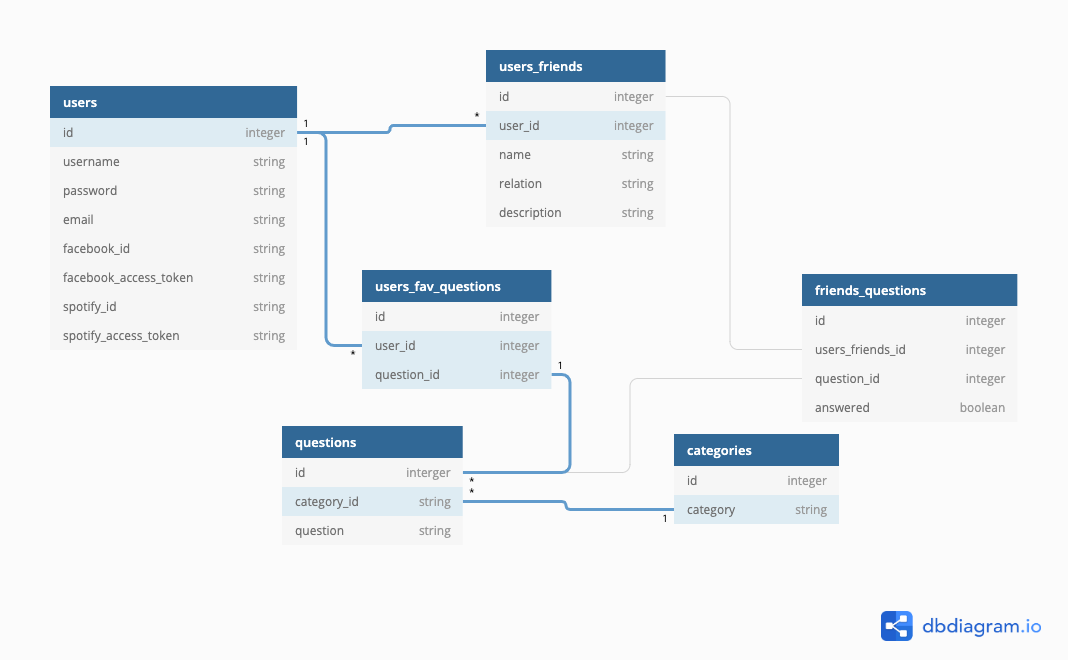
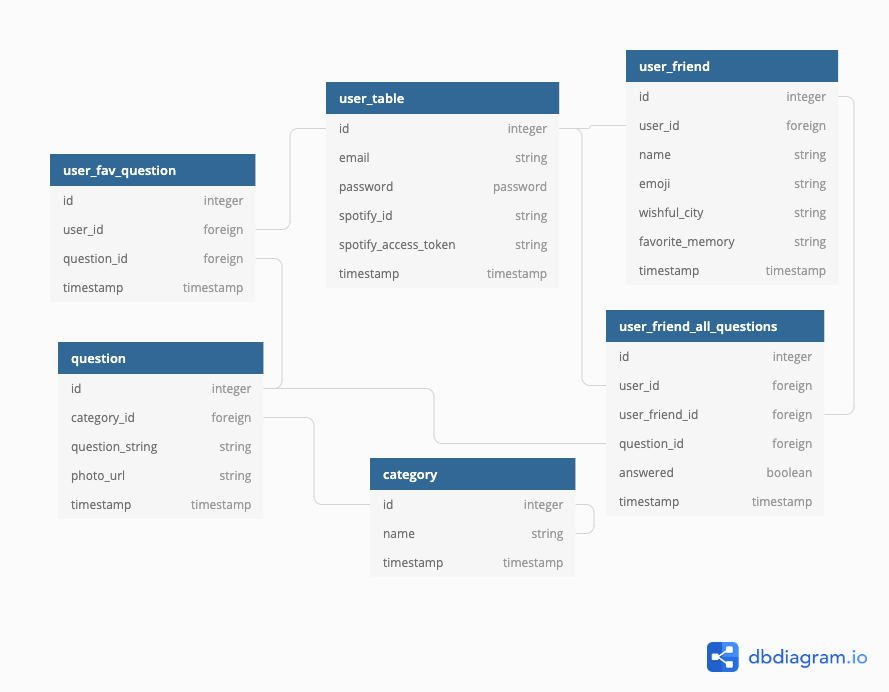
updated table

diff --git a/controller/services/testqueries.js b/controller/services/testqueries.js
@@ -1,0 +1,62 @@
+var knex = require('knex')({
+    client: 'postgresql',
+    connection: {
+        user: 'postgres',
+        password: 'orange',
+        database: 'doyouremember'
+    },
+    migrations: {
+        tableName: 'migrations'
+    }
+});
+
+function printQuery(query) {
+    query.then((eachRowInQuery) => {
+        console.log("Each Row in Query: ", eachRowInQuery);
+    }).catch((error) => {
+        console.log("Error: ", error);
+    });
+}
+let getQuery = knex.from("user_table").select("email", "password");
+
+/**********************************************
+ * QUERIES REQUIRED
+ * ==================================
+ * - [x ] get all users 
+ * - [ ] get user (id, user)
+ * - [ ] add user (user)
+ * - [ ] edit user service (id, user) 
+ * - [ ] delete user service (id, user)
+ * - [ ] get all user friends
+ * - [ ] add friend
+ * - [ ] edit friend
+ * - [ ] delete friend
+ * - [ ] get all questions from this category
+ * - [ ] get all questions
+ * - [ ] get all favorited questions
+ * - [ ] get all answered questions
+ * - [ ] make questions answered 
+ * 
+ ***********************************************/
+
+// get all from table 
+
+let user_table = "user_table"
+let user_table_email = "email"
+let user_table_password = "password"
+let category = "category"
+let category_name = "name"
+
+let getAllFromUserTable = knex.from(user_table).select(user_table_email, user_table_password)
+let getFromUser = knex.from(user_table).select("")
+
+let getUserQuery = knex.from
+    .then((rows) => {
+        console.log("HERE YA GO YA IDIOT")
+        console.log(rows);
+        console.log("AT LEAST SOMETHING HAPPENED TODAY")
+    })
+    .catch((error) => {
+        console.log("THE IDIOCY NEVER ENDS")
+        console.log(error);
+    });

diff --git a/controller/routes/FriendRouter.js b/controller/routes/FriendRouter.js
@@ -40,10 +40,6 @@ class FriendRouter {
      * Outgoing data: 
      * Methods from service class
      * 1. getAllFriendsService()
-     * 2. getFriendService(id, friend)
-     * 3. addFriendService(friend)
-     * 4. editFriendService(id, friend)
-     * 5. deleteFriendService(id, friend)
      ***********************************************/
     getAllFriendsRoute(incoming, outgoing) {
 

diff --git a/controller/routes/README.md b/controller/routes/README.md
@@ -1,0 +1,82 @@
+Example 1
+```
+  add(note, user) {
+    // Where In claus broken...
+    // let query = this.knex.select('notes.content', 'notes.user_id')
+    // .from
+    // ('notes')
+    // .where('users.id', 1)
+    //                 .whereIn('notes.user_id', function (){
+    //                      this.select('id').from('users')
+    //                 })
+    //                 console.log('okay')
+    //                 console.log(note, user)
+    //                 // console.log(query)
+    //                 return query.then((rows)=>{
+    //                     console.log('getting here')
+    //                     console.log(rows, 'these are rows?')
+    //                     return rows
+    //                 })
+
+    // where is actually a subquery - it first runs the subquery returning an array, then rest of the conditionas are applied
+    let query = this.knex
+      .select("id")
+      .from("users")
+      .where("users.username", user);
+
+    return query.then((rows) => {
+      console.log(rows[0].id, "<==== this is the id");
+      if (rows.length === 1) {
+        return this.knex
+          .insert({
+            content: note,
+            user_id: rows[0].id,
+          })
+          .into("notes");
+      } else {
+        throw new Error(`Cannot add a note to a user that doesn't exist!`);
+      }
+    });
+  }
+  ```
+list the user 
+  ```
+    list(user) {
+    if (typeof user !== "undefined") {
+      let query = this.knex
+        .select("notes.id", "notes.content")
+        .from("notes")
+        .innerJoin("users", "notes.user_id", "users.id")
+        .where("users.username", user)
+        .orderBy("notes.id", "asc");
+
+      return query.then((rows) => {
+        console.log(rows, "pp");
+        return rows.map((row) => ({
+          id: row.id,
+          content: row.content,
+        }));
+      });
+    } else {
+      let query = this.knex
+        .select("users.username", "notes.id", "content")
+        .from("notes")
+        .innerJoin("users", "notes.user_id", "users.id");
+
+      return query.then((rows) => {
+        console.log(rows);
+        const result = {};
+        rows.forEach((row) => {
+          if (typeof result[row.username] === "undefined") {
+            result[row.username] = [];
+          }
+          result[row.username].push({
+            id: row.id,
+            content: row.content,
+          });
+        });
+        return result;
+      });
+    }
+  }
+  ```

diff --git a/README.md b/README.md
@@ -62,6 +62,10 @@ node app.js
 - [ ] ![SQL Diagram](./sql.png)
 - [ ] Postgres
 
+Final Database Diagram
+
+
+
 ## Important Vocabulary
 
 | Word | Where it occurs | How it works |
@@ -375,7 +379,7 @@ user_fav_question {
     - [ ] Get user 
       - [ ] Service: getUserService("/:id")
       - [ ] Route: getUserRoute 
-      - [ ] Knex command works
+      - [ x] Knex command works
       - [ ] Postgres check 
       - [ ] Router: 
       - [ ] Incoming route:
